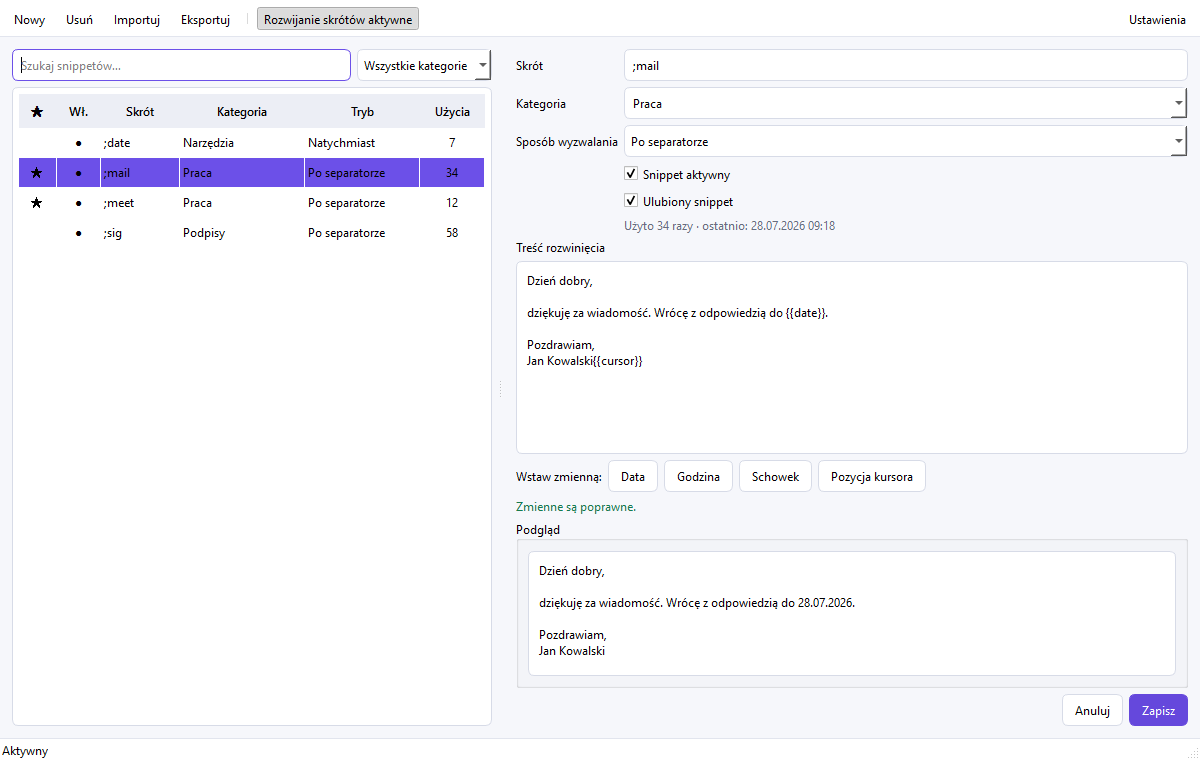
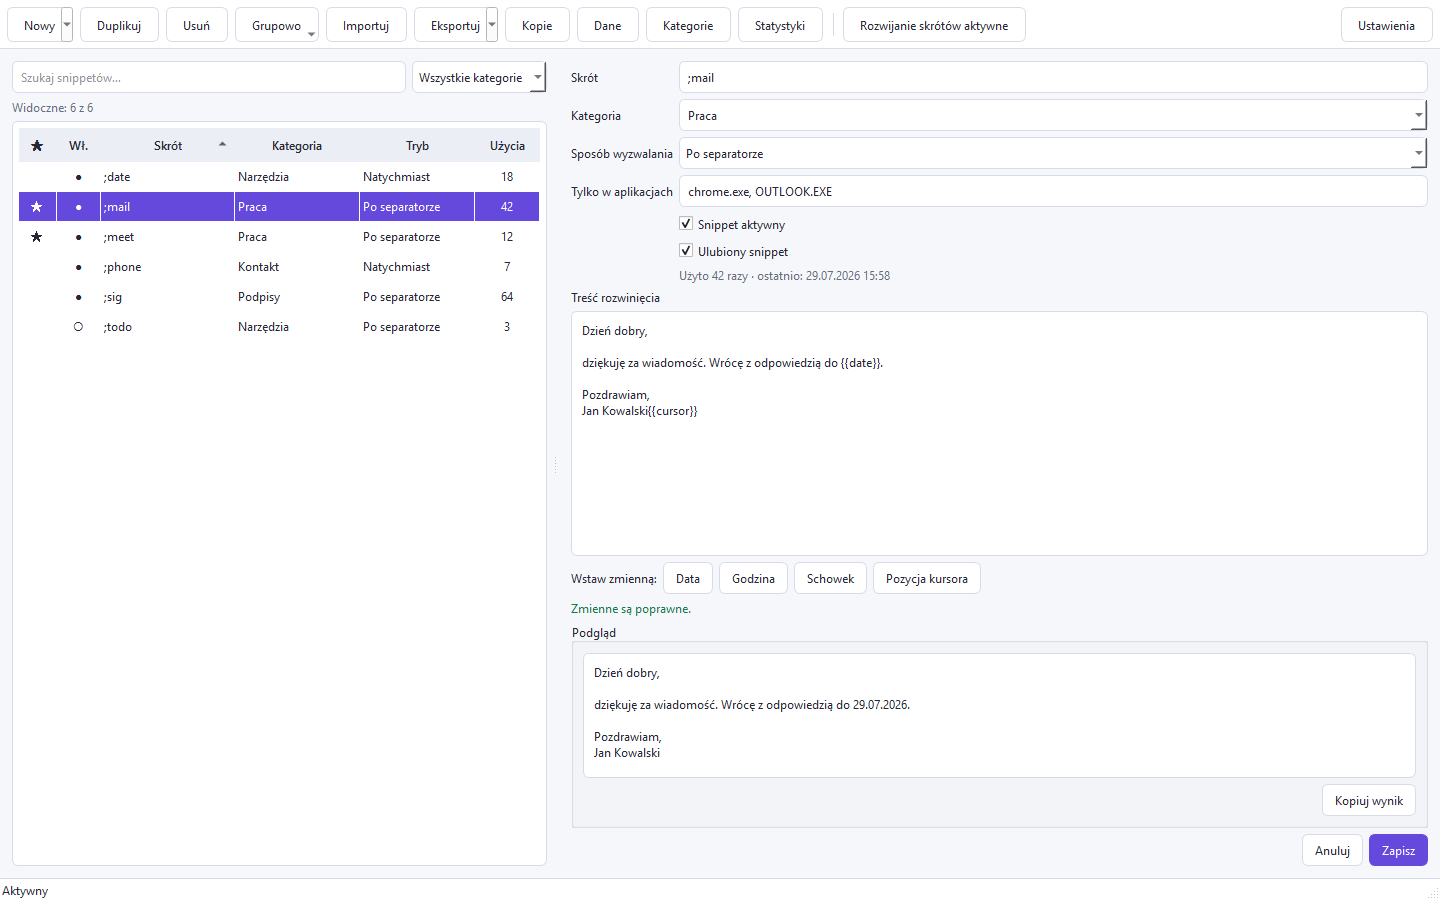
Odśwież zrzut README i ustabilizuj smoke test (#29)
* Refresh README application screenshot

* Stabilize packaged app smoke test

diff --git a/README.md b/README.md
@@ -10,6 +10,10 @@ Python on the target computer.
 
 ![QuickType running on Windows 11](docs/quicktype-screenshot.png)
 
+The screenshot shows QuickType 1.25.0 with searchable snippets, categories,
+usage statistics, application rules, bulk actions, backup tools, and a live
+preview of dynamic variables.
+
 ## Ready-to-use application
 
 **[Download the latest QuickType.exe](https://github.com/grzesiokk/QuickType-textexpander/releases/latest/download/QuickType.exe)**
